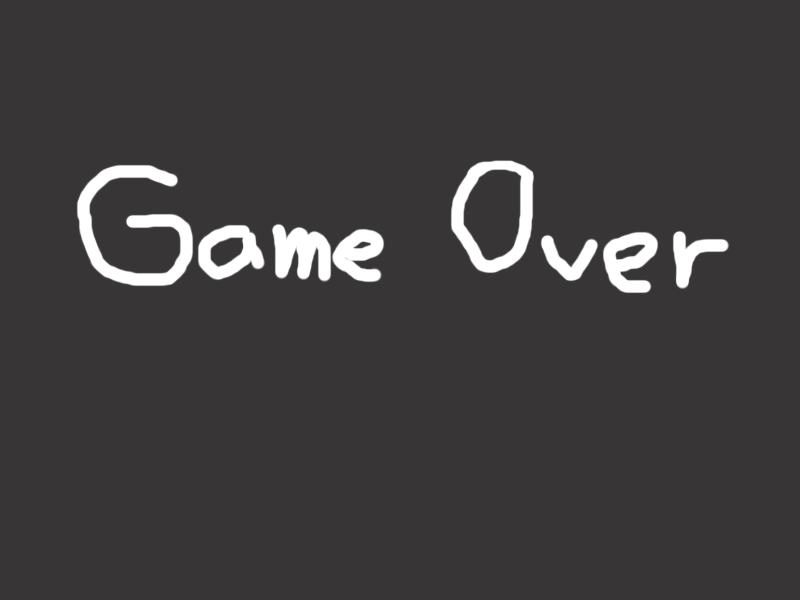
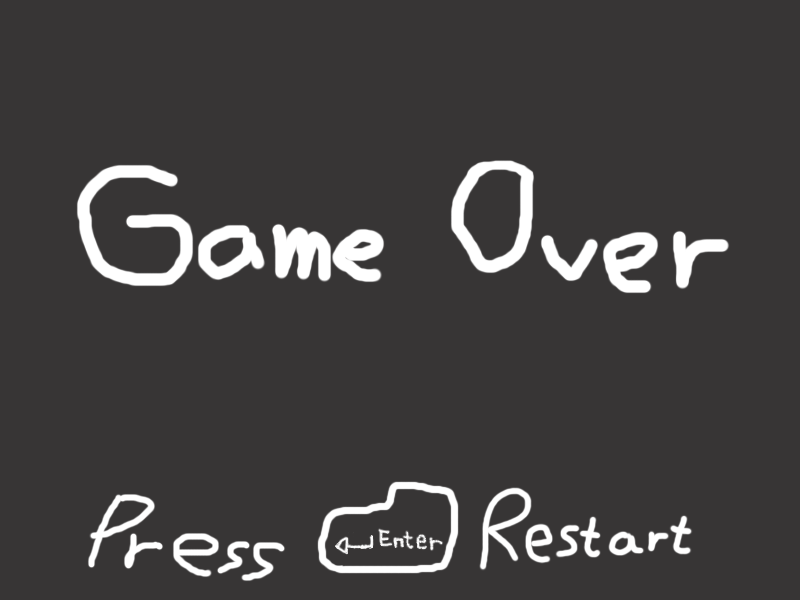
done game over

Changed region(s): [[0.0938, 0.78, 0.875, 0.96]]

diff --git a/src/GameLayer.js b/src/GameLayer.js
@@ -1,25 +1,31 @@
 
 var GameLayer = cc.LayerColor.extend({
   init: function() {
-   	this.background = new Bg();
-	this.addChild(this.background);
-	this.background.setPosition(new cc.Point(400,300));
-	this.player= new Player();
-	this.player.setPosition(new cc.Point(400,300));
-	this.addChild(this.player);
-    this.addKeyboardHandlers();
-	this.scheduleUpdate();
-	this.arrBullet = [];
-	this.arrEnemy = [];
-	this.timeEnemySpawn = 180;
-	this.timeEnemy = 0;
-	this.timeDelayGun = 30;
-	this.timeGun = 0;
-	this.createEnemy();
-	this.isOver = false;
-	this.canfire = true;
-	
-    return true;
+	  this.background = new Bg();
+	  this.addChild(this.background);
+	  this.background.setPosition(new cc.Point(400,300));
+	  this.player= new Player();
+	  this.player.setPosition(new cc.Point(400,300));
+	  this.addChild(this.player);
+	  this.addKeyboardHandlers();
+	  this.scheduleUpdate();
+	  this.arrBullet = [];
+	  this.arrEnemy = [];
+	  this.timeEnemySpawn = 180;
+	  this.timeEnemy = 0;
+	  this.timeDelayGun = 30;
+	  this.timeGun = 0;
+	  this.createEnemy();
+	  this.isOver = false;
+	  this.canfire = true;
+	  this.scoreLabel = cc.LabelTTF.create( '0' , 'Score' , 40);
+	  this.scoreLabel.setPosition(new cc.Point(screenWidth - 50 , screenHeight - 40 ));
+	  this.addChild(this.scoreLabel);
+	  this.textScoreLabel = cc.LabelTTF.create( 'Score :  ' , 'StringScore' , 40);
+	  this.textScoreLabel.setPosition(new cc.Point(screenWidth - 125 , screenHeight - 40 ));
+	  this.addChild(this.textScoreLabel);
+	  return true;
+	  
   },
 	
 	update: function(){
@@ -124,11 +130,18 @@ var GameLayer = cc.LayerColor.extend({
 						this.arrBullet.splice(j,1);
 						this.removeChild(this.arrEnemy[i]);
 						this.arrEnemy.splice(i,1);
+						this.addScore(2);
 					}	
 				}
 			}
 		}
 	},
+	
+	addScore : function(scoreAdd) {
+		score += scoreAdd;
+		this.scoreLabel.setString(score);
+	},
+	
 	isIntersect : function (obj1 , obj2) {
 		if(obj1 != null && obj2 != null) {
 			var obj1Pos = obj1.getPosition();
@@ -143,8 +156,8 @@ var GameLayer = cc.LayerColor.extend({
 		if( pos.x < 50 || pos.x > screenWidth - 50 || pos.y < 50 || pos.y > screenHeight - 50) {
 			this.removeChild(this.arrBullet[i]);
 			this.arrBullet.splice(i,1);
-		}
-		},
+			}
+	},
 	
 	checkAdjacentEnemy : function(){
 		for(var i = 0 ; i < this.arrEnemy.length ; i++){
@@ -181,10 +194,12 @@ var GameLayer = cc.LayerColor.extend({
 			cc.director.runScene(new GameScene());
 	},
 	
+	
+	
 
 });
 
-var StartScene = cc.Scene.extend({
+var StartScene = cc.Scene.extend ({
   onEnter: function() {
     this._super();
     var layer = new GameLayer();

diff --git a/src/Enemy.js b/src/Enemy.js
@@ -62,33 +62,23 @@ var Enemy = cc.Sprite.extend({
 	},
 	
 	randomPosition: function() {
-		var numRandom = 1 + Math.floor( Math.random()*4);
-		var numRandom2 = 1 +Math.floor( Math.random()*2);
-		if(numRandom == 1){
-			if(numRandom2 == 1)
-				this.setPosition( cc.p(screenWidth/2 + 10 ,screenHeight));
-			else
-				this.setPosition(cc.p(screenWidth/2 - 10 ,screenHeight));
-		}
-		else if(numRandom == 2) {
-			if(numRandom2 == 1)
-				this.setPosition( cc.p(screenWidth/2 + 10, 0 ));
-			else
-				this.setPosition( cc.p(screenWidth/2 - 10, 0 ));
-		}
-		else if(numRandom == 3) {
-			if(numRandom2 == 1)
-				this.setPosition(cc.p(0 , screenHeight /2 + 10));
-			else
-				this.setPosition(cc.p(0 , screenHeight /2 - 10));
-		}
-		else if(numRandom == 4) {
-			if(numRandom2 == 1)
-				this.setPosition( cc.p(screenWidth , screenHeight / 2 + 10));
-			else
-				this.setPosition( cc.p(screenWidth , screenHeight / 2 - 10));
-		}
-		
+		var numRandom = 1 + Math.floor( Math.random() * 8 );
+		if(numRandom == 1)
+			this.setPosition( cc.p(screenWidth / 2 + 10 ,screenHeight));
+		else if(numRandom == 2)
+			this.setPosition( cc.p(screenWidth / 2 - 10 ,screenHeight));
+		else if(numRandom == 3)
+			this.setPosition( cc.p(screenWidth / 2 + 10, 0 ));
+		else if(numRandom == 4)
+			this.setPosition( cc.p(screenWidth / 2 - 10, 0 ));
+		else if(numRandom == 5)
+			this.setPosition(cc.p(0 , screenHeight / 2 + 10));
+		else if(numRandom == 6) 
+			this.setPosition(cc.p(0 , screenHeight / 2 - 10));
+		else if(numRandom == 7)
+			this.setPosition( cc.p(screenWidth , screenHeight / 2 - 10));
+		else if(numRandom == 8)
+			this.setPosition( cc.p(screenWidth , screenHeight / 2 + 10));
 	}
 	
 });

diff --git a/src/GameOver.js b/src/GameOver.js
@@ -8,6 +8,13 @@ var GameOver = cc.Sprite.extend( {
 		this.runAction(movingBackground);
 		this.setPosition(new cc.Point(screenWidth /2 , screenHeight / 2));
 		this.addKeyboardHandlers();
+		this.scoreLabel = cc.LabelTTF.create( '0' , 'Score' , 40);
+		this.scoreLabel.setPosition(new cc.Point(screenWidth / 2 , screenHeight / 2  - 100));
+		this.scoreLabel.setString(score);
+	  	this.addChild(this.scoreLabel);
+		 this.textScoreLabel = cc.LabelTTF.create( 'Score :  ' , 'StringScore' , 40);
+		this.textScoreLabel.setPosition(new cc.Point(screenWidth / 2 - 75 , screenHeight / 2 - 100 ));
+	  	this.addChild(this.textScoreLabel);
 	},
 	
 	addKeyboardHandlers : function() {
@@ -24,8 +31,10 @@ var GameOver = cc.Sprite.extend( {
 	},
 	
 	onKeyDown : function( keyCode , event ) {
-		if( keyCode == cc.KEY.enter)
+		if( keyCode == cc.KEY.enter){
 			cc.director.runScene( new StartScene());
+			score = 0;
+		}
 	},
 	
 	onKeyUp : function(keyCode , event) {

diff --git a/src/resource.js b/src/resource.js
@@ -1,4 +1,4 @@
-var res = { bg_png : 'res/images/Background.png',
+var res = { bg_png : 'res/images/Bg.png',
 		   player_up: 'res/images/PlayerUp.png',
 		   player_down: 'res/images/PlayerDown.png',
 		   player_left: 'res/images/PlayerLeft.png',
